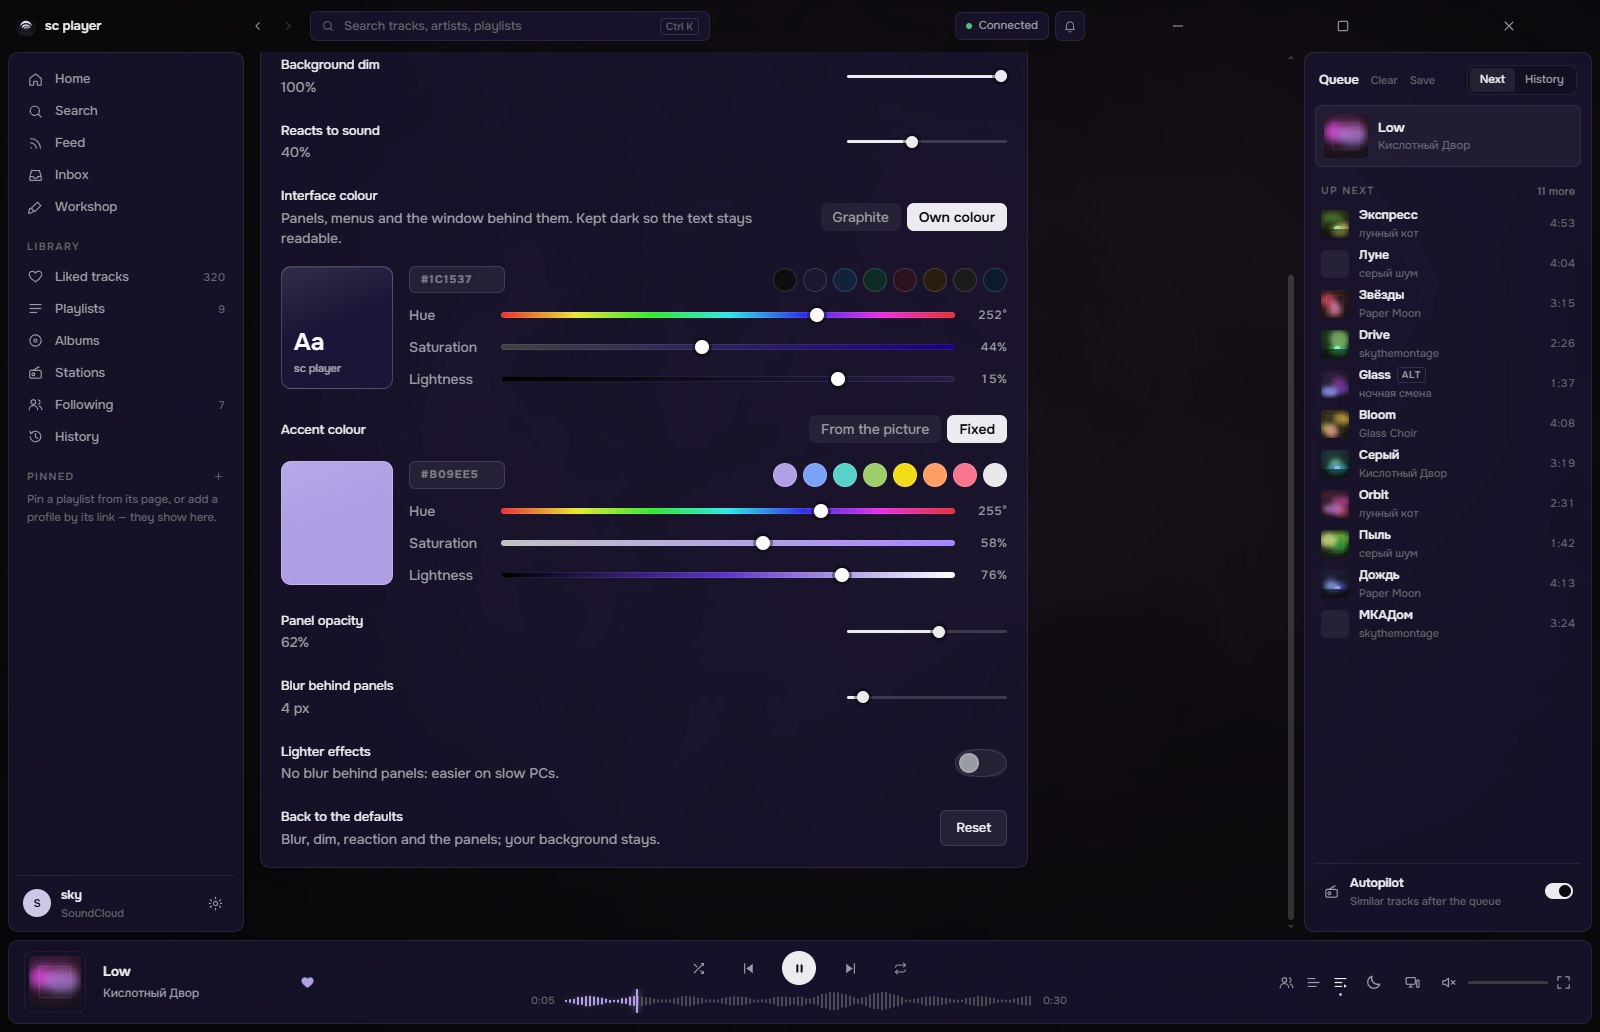
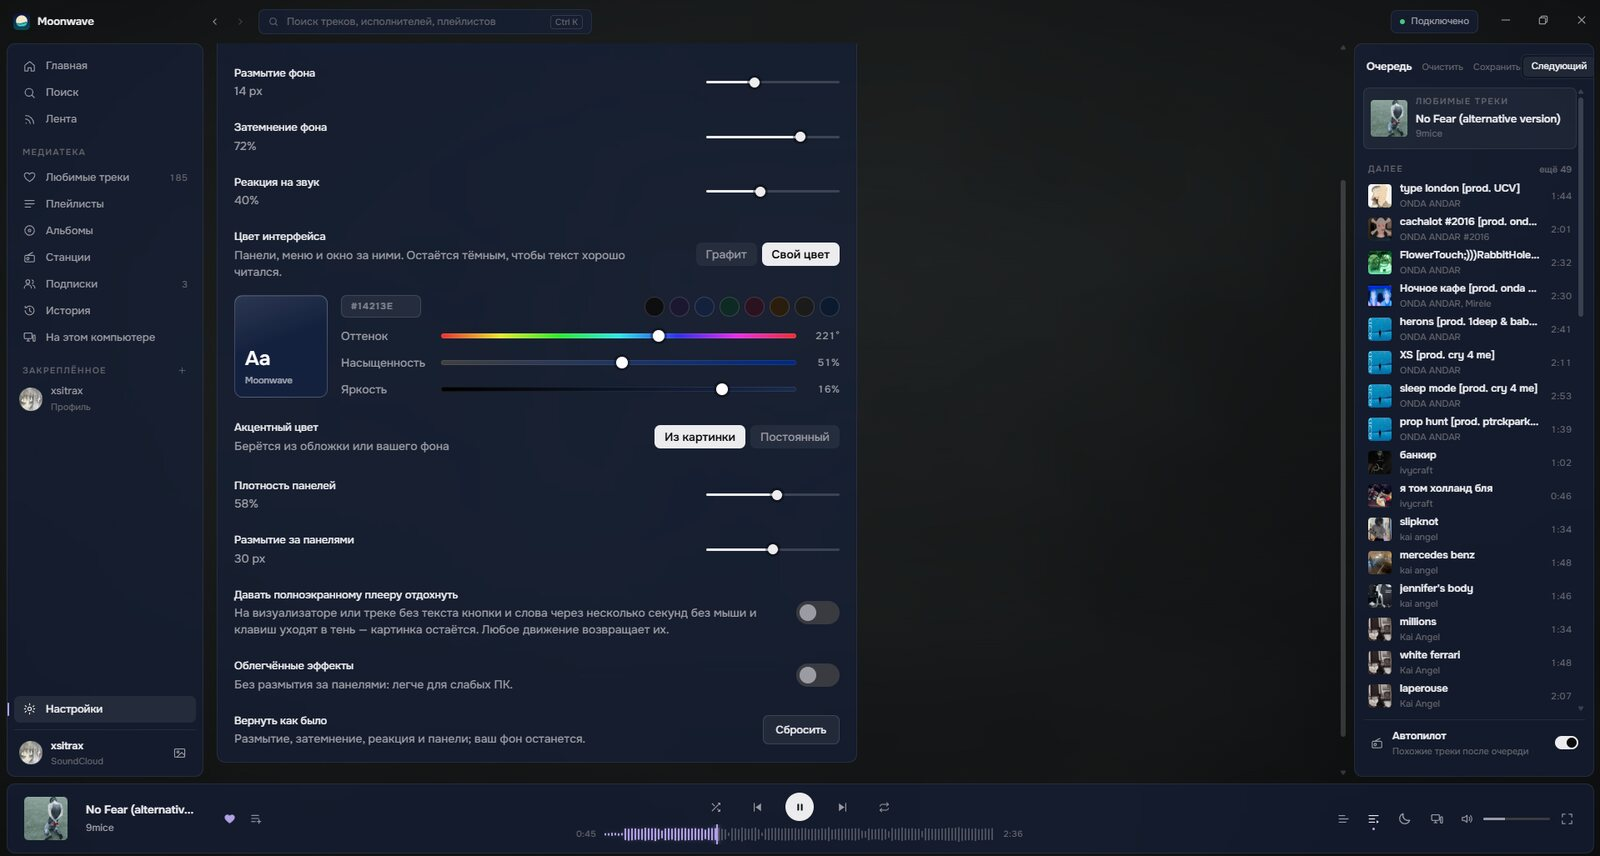
Readme screenshots of Moonwave in place of the old sc player ones, without the listening room, which needs a server.

diff --git a/README.md b/README.md
@@ -22,7 +22,7 @@
 
 <br/>
 
-<img src=".github/assets/hero.jpg" alt="Moonwave — the Home page over a living background" width="100%" />
+<img src=".github/assets/hero.jpg" alt="Moonwave — the Home page" width="100%" />
 
 </div>
 
@@ -34,19 +34,12 @@
   <table>
     <tr>
       <td align="center" width="50%">
-        <img src=".github/assets/fullscreen.jpg" alt="The full screen player with lyrics lit word by word" />
+        <img src=".github/assets/fullscreen.jpg" alt="The full screen player with the lyrics next to the cover" />
         <br/>
         <sub><b>Lyrics, word by word</b></sub>
       </td>
       <td align="center" width="50%">
-        <img src=".github/assets/rooms.jpg" alt="A listening room with friends next to the Home page" />
-        <br/>
-        <sub><b>Listen together</b></sub>
-      </td>
-    </tr>
-    <tr>
-      <td align="center" colspan="2">
-        <img src=".github/assets/appearance.jpg" alt="Settings → Appearance with an own interface colour and accent" width="50%" />
+        <img src=".github/assets/appearance.jpg" alt="Settings → Appearance with an own interface colour and accent" />
         <br/>
         <sub><b>Make it yours</b></sub>
       </td>
